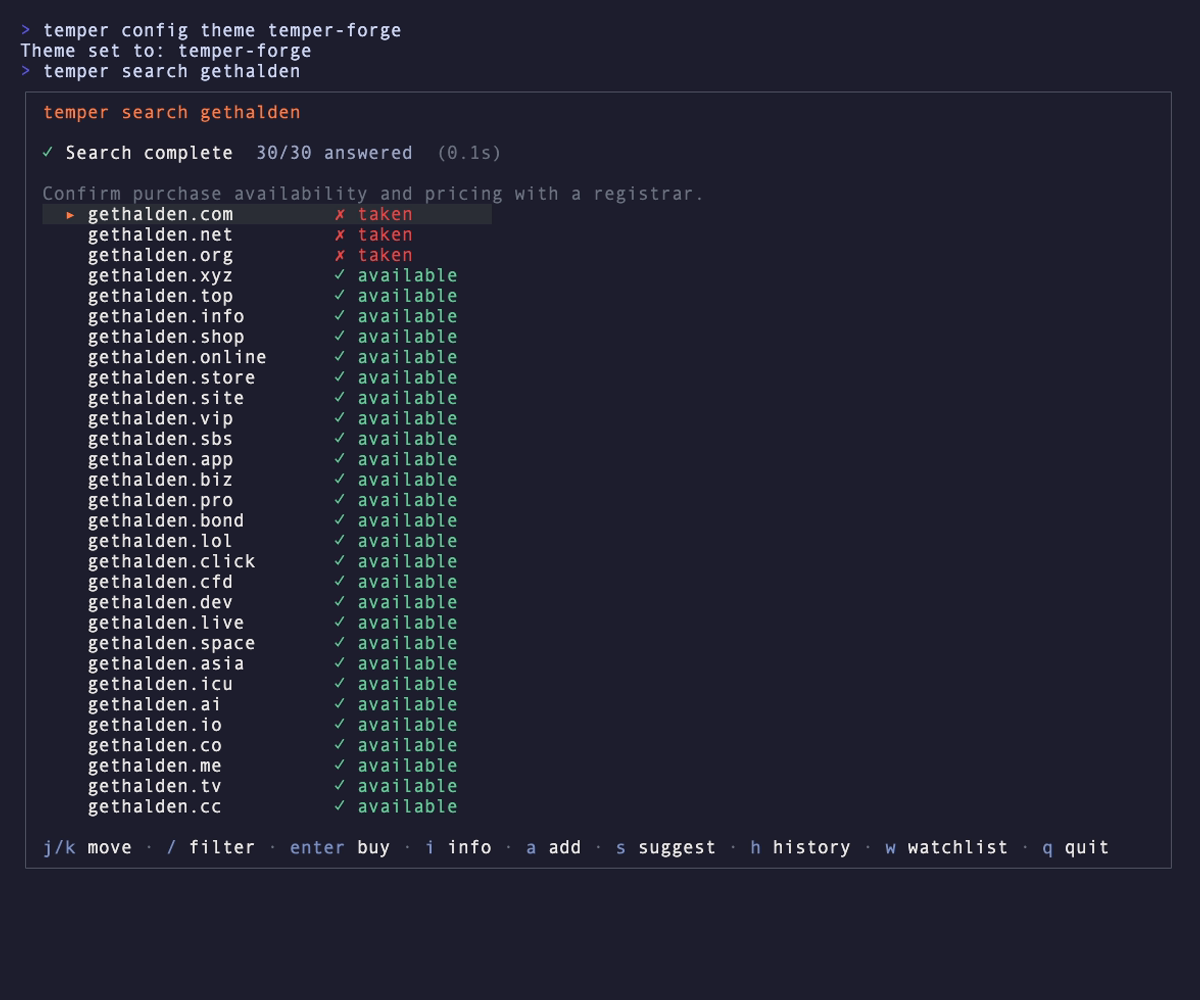
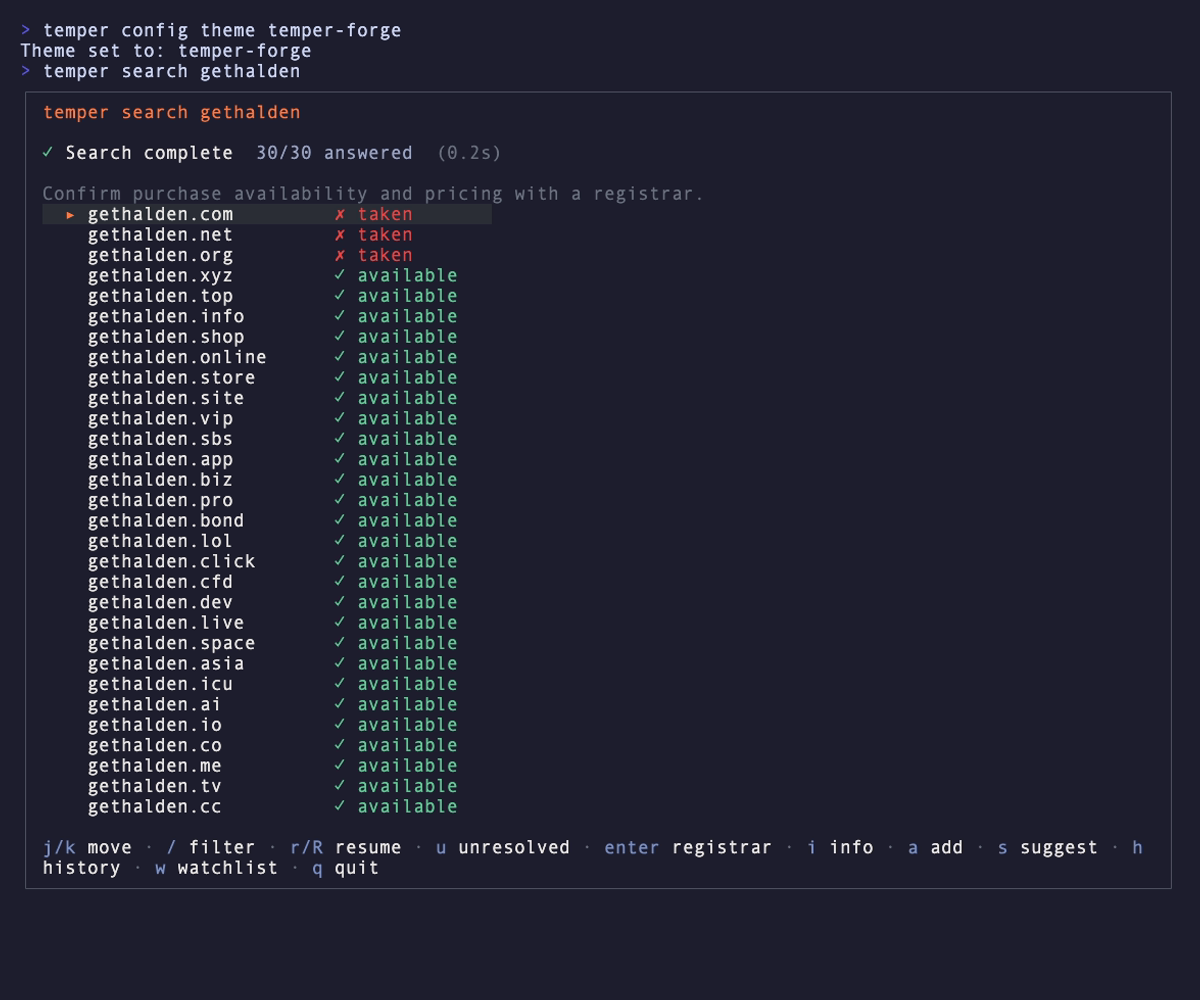
docs: document lookup recovery and refresh terminal captures

Changed region(s): [[0.4933, 0.837, 0.925, 0.868], [0.1233, 0.837, 0.4625, 0.899], [0.0308, 0.868, 0.0925, 0.899]]

diff --git a/web/app/llms.txt/route.ts b/web/app/llms.txt/route.ts
@@ -45,7 +45,7 @@ temper is an open-source command-line tool that uses official RDAP and WHOIS rou
 - \`search_domain\` - query one bare name across default or extended TLDs, or only suffixes supplied in tlds (including co.uk)
 - \`search_names\` - query up to 8 bare names across default, extended or selected suffixes; selected names × suffixes max 480. Do not combine tlds with extended, including false.
 - \`suggest_domain\` - generate prefix/suffix combinations and check them with RDAP/WHOIS
-- \`check_domain_availability\` - explicit full-domain check only
+- \`check_domain_availability\` - explicit full domains, or resume=true for exact prior unresolved domains on user request; maximum 100 per call
 - \`whois_domain\` - registrar, expiry, nameserver lookup
 - \`open_registrar\` - open purchase page in the browser
 
@@ -69,11 +69,19 @@ temper is an open-source command-line tool that uses official RDAP and WHOIS rou
 Local CLI/MCP commands sharing the same home persist server cooldowns in
 ~/.temper/state/lookup-limits.json. Server Retry-After takes precedence; otherwise
 Temper applies a 60/120/240/480/900-second policy with 0–5 seconds of jitter.
-After the wait, a new request sends one probe first; there is no background retry.
+After the wait, recovery proceeds one request at a time with conservative adaptive
+spacing; one successful response does not reset the policy. There is no background retry.
 server_cooldown with attempts=0 means no request was sent for that domain.
 retryAt is an earliest retry time, not a success guarantee; retryAtSource is
 server or client_policy. Do not bypass a cooldown by changing home or protocol.
 State errors stop local requests; the hosted demo uses separate memory-only state.
+Version 2 shared state preserves existing waits on migration and refuses active old
+leases. Update older processes/reconnect MCP clients; do not delete cooldown state.
+Lookup tools return structured rows, summary and retryPlan alongside text.
+Resume only exact prior unresolved names when asked, with a 30s MCP lookup budget;
+do not silently truncate over 100 names or automatically replay remaining pages.
+TUI r/R resumes selected/visible unresolved candidates after confirmation (max 120s);
+Esc stops a resume while keeping results, and u shows unresolved rows.
 
 ## CLI updates
 

diff --git a/web/lib/temper-data.ts b/web/lib/temper-data.ts
@@ -162,14 +162,17 @@ export interface Keybind {
 
 export const KEYMAP: Keybind[] = [
   { keys: ["j", "k"], action: "move" },
-  { keys: ["↵"], action: "buy" },
+  { keys: ["↵"], action: "registrar" },
+  { keys: ["r"], action: "resume selected" },
+  { keys: ["R"], action: "resume visible" },
+  { keys: ["u"], action: "unresolved" },
   { keys: ["i"], action: "whois" },
   { keys: ["/"], action: "filter" },
   { keys: ["a"], action: "watch" },
   { keys: ["s"], action: "suggest" },
   { keys: ["h"], action: "history" },
   { keys: ["w"], action: "list" },
-  { keys: ["esc"], action: "back" },
+  { keys: ["esc"], action: "stop resume / back" },
   { keys: ["q"], action: "quit" },
 ];
 

diff --git a/web/components/Mcp.tsx b/web/components/Mcp.tsx
@@ -120,7 +120,8 @@ export default function Mcp() {
           <p>
             temper runs as a local MCP server. Your AI assistant searches
             domains, discovers extensions by industry, purpose or region, and
-            checks only the extensions you choose. It can also open purchase pages.
+            checks only the extensions you choose. On request, it can resume exact
+            unresolved candidates while respecting server waits, or open registrar pages.
           </p>
           <p className={styles.muted}>
             When invoked through your local MCP server, temper does not proxy

diff --git a/README.md b/README.md
@@ -149,14 +149,16 @@ Existing releases gain this feature only after installing a release containing i
 | Key | Action |
 |-----|--------|
 | `j`/`k` | Move up/down |
-| `Enter` | Buy domain / select |
+| `Enter` | Choose a registrar to buy or confirm an unresolved result / select |
 | `i` | WHOIS/RDAP detail |
 | `/` | Filter results |
+| `r` / `R` | Resume selected / visible unresolved candidates after confirmation |
+| `u` | Toggle unresolved results, including in available-only mode |
 | `a` | Add to watchlist |
 | `s` | Suggest combinations |
 | `h` | Search history |
 | `w` | Watchlist |
-| `esc` | Back |
+| `esc` | Stop the current resume and keep results; otherwise back |
 | `q` | Quit |
 
 ### Search
@@ -172,7 +174,14 @@ temper search myproject --format json             # JSON output for piping
 temper search gethalden writeholt --format json   # multiple keywords in JSON mode
 ```
 
-Navigate with `j`/`k`, press `Enter` to buy, `a` to add to watchlist, `/` to filter. Press `s` for suggestions, `h` for history, `w` for watchlist. `q` to quit. TUI mode shows one query at a time; use `--format json` for batch searches.
+Navigate with `j`/`k`, press `Enter` to choose a registrar, `a` to add to watchlist, `/` to filter. Press `s` for suggestions, `h` for history, `w` for watchlist. `q` to quit. TUI mode shows one query at a time; use `--format json` for batch searches.
+
+Use `r` to resume the selected unresolved candidate, or `R` for unresolved candidates
+in the current filtered list. Confirmation shows the count and a maximum 120s budget.
+Server waits still apply; candidates beyond the budget stay deferred. `Esc` stops
+the resume while retaining prior results. Returning from history or another screen
+preserves the current search in memory; exiting Temper ends that session. Resuming
+updates its existing history entry without recreating a deleted entry.
 
 <p align="center"><img src="https://raw.githubusercontent.com/jongjinchoi/temper-domains/main/assets/screenshots/search.png" width="600" /></p>
 
@@ -267,7 +276,7 @@ result should be reviewed with a registrar before treating it as purchasable.
 
 #### Lookup limits and partial results
 
-CLI/MCP searches choose a 5–30s total budget based on the current server queue.
+Initial CLI/MCP searches choose a 5–30s total budget based on the current server queue and shared spacing.
 This is a client policy, not a promise that every registry will answer. An explicit
 `search --timeout` sets a strict whole-search limit, including bootstrap loading.
 Each network request has up to 5s after dispatch, within the remaining total time;
@@ -278,6 +287,8 @@ Results keep the existing status values and JSON array format. Optional
 request that never started, a timeout, cancellation, and server rate limits.
 RDAP `responseTime` includes queueing and retry waits; `queueTimeMs` isolates
 the queue portion.
+`httpStatus` preserves the observed HTTP status and `checkedAt` dates an actual
+registration/not-found answer; a deferred request does not create new evidence.
 MCP summaries separate requested, attempted, answered, and unresolved domains
 and show actual elapsed time. A completed stream can contain unresolved results.
 `available` means no registration record was found; confirm purchase availability,
@@ -289,7 +300,11 @@ Local CLI and MCP commands share server cooldowns in
 waits 60, 120, 240, 480, then 900 seconds after repeated limits, adding 0–5
 seconds of jitter. These are client policy values, not registry quotas.
 Repeating a search during the wait does not increase that backoff. After the
-wait, a new user request sends one probe first; no background retry runs.
+wait, a new user request enters gradual recovery; no background retry runs.
+Recovery allows one request at a time. After a 429, spacing starts at 1200ms and
+can increase to 2400/4800/9600ms after new limits. Each step back toward normal
+requires eight consecutive valid answers and at least 30s of observation.
+These conservative policy values are not measured registry quotas or a speed guarantee.
 
 `terminationReason: "server_cooldown"` with `attempts: 0` means that domain was
 not queried because of a previous server limit. `retryAt` is the earliest retry
@@ -299,13 +314,20 @@ the wait. HTTP 503 remains a service error. Other servers can continue.
 
 The state file contains server coordination metadata, not domain names or
 response bodies. Commands using the same home coordinate at most two requests
-per server and 300ms between starts. A damaged, inaccessible or busy state file
+per server and at least 300ms between admissions under normal conditions.
+Waiting for shared admission does not hold a local network slot. A damaged, inaccessible or busy state file
 returns `limit_state_error` instead of sending an uncoordinated request. Preserve
 and repair a damaged file; do not delete it to bypass a wait. If a command dies
 while holding the short file lock, first confirm no Temper processes are running,
 then remove only `lookup-limits.json.lock`. Request leases otherwise expire or
 are reclaimed after their process exits. Different homes, machines and hosted
 web instances do not share this local state; the web demo uses memory only.
+
+The shared state now uses version 2. Migration preserves existing waits and refuses
+to proceed while a live version-1 request lease exists. Update older Temper
+processes and reconnect MCP clients before using the new version together.
+Older 0.5.2 processes reject version-2 state; do not delete the file to work around
+that error. Automatic downgrade is not supported.
 
 ### Whois
 
@@ -497,12 +519,19 @@ See [VS Code's MCP documentation](https://code.visualstudio.com/docs/agent-custo
 | `search_domain` | Check one bare name across 30, 60 or explicitly selected extensions |
 | `search_names` | Check up to 8 bare names across default, extended or selected extensions |
 | `suggest_domain` | 15 name combinations × 5 TLDs using RDAP/WHOIS |
-| `check_domain_availability` | Verify explicit full domains only (up to 100) |
+| `check_domain_availability` | Check explicit full domains, or user-requested resume of exact prior unresolved domains (up to 100) |
 | `whois_domain` | Detailed WHOIS/RDAP info (registrar, dates, nameservers) |
 | `open_registrar` | Open purchase page in browser |
 
 MCP output keeps uncertain results visible. Low-confidence availability is
 reported as review instead of a final recommendation.
+Search, suggestion and availability tools also return `structuredContent` with
+`schemaVersion`, `rows`, `summary`, and `retryPlan`, plus the same payload as JSON
+text. Use `resume: true` only when the user asks to resume exact unresolved names
+from a prior result. Each resumed call makes one pass with a 30s lookup budget;
+new limits stop queued work for that server while other servers continue. More
+than 100 candidates require an explicit selection or split, never silent truncation
+or automatic replay. A cancelled tool call may not deliver its in-progress results.
 
 **Example: Discover supported extensions**
 

diff --git a/docs/current.md b/docs/current.md
@@ -88,7 +88,7 @@ in both workspaces so root typechecking does not download a separate compiler.
 - npm installs expose the `temper` binary and require Node.js >= 22.12.0.
 - Binary releases target macOS, Linux, and Windows; the Homebrew tap covers macOS and Linux.
 - CLI/MCP searches automatically budget 5–30s, including bootstrap, using queued
-  server start spacing plus a 5s request window. This estimate does not guarantee
+  local queue and shared recovery spacing plus a 5s request window. This estimate does not guarantee
   completion under congestion, slow responses or new server cooldowns. Explicit
   CLI search timeouts remain strict; detail uses 10s and hosted demo uses 3s.
 - Actual requests share a process-local scheduler: at most 20 active requests,
@@ -97,7 +97,9 @@ in both workspaces so root typechecking does not download a separate compiler.
   ~/.temper/state/lookup-limits.json. RDAP keys use origin; WHOIS uses host:43.
   These are client policy values, not published server quotas. The hosted web
   checker uses memory only; separate instances do not share a distributed limit.
-- RDAP 429/503 retries re-enter the scheduler (at most two attempts). Retry-After
+- RDAP 429/503 retries re-enter the scheduler (at most two limited-response passes
+  for an initial lookup; one for explicit resume). Redirects and published HTTPS
+  endpoint failover can add transmissions; attempts counts actual requests. Retry-After
   seconds and HTTP dates are honored without truncation. When waiting would
   exceed the deadline, return the response with retryAt. HTTP 503 is a service
   error, not a rate_limited result.
@@ -106,22 +108,30 @@ in both workspaces so root typechecking does not download a separate compiler.
   step; concurrent replies and skipped searches do not. Valid server waits
   (including zero or 24 hours) take precedence and are not capped to 900 seconds.
   A longer previously observed wait cannot be shortened by a later response.
-- After a wait, one shared probe starts inside a new caller's request. A valid
-  registration/not-found response resets policy backoff; no background replay
-  runs. Another server can continue while one server is deferred. Duplicate
+- After a wait, recovery admits one request at a time. 429 spacing starts at 1200ms
+  and increases through 2400/4800/9600ms; eight consecutive valid answers and 30s
+  of observation relax one step (600 then 300ms on the way back). Errors, cancellation
+  and abandoned leases interrupt the streak. 503 preserves its separate failure kind
+  without increasing the 429 speed level. No background replay runs. Shared admission
+  returns a wait without retaining a lease or local transport slot; another server
+  can continue while one server is deferred. Duplicate
   normalized domains in one batch share the lookup but retain each output row.
-- Local state is versioned and validated, with an exclusive short file lock,
+- Local state is version 2 and validated, with an exclusive short file lock,
   fsynced temporary file/rename and 0600 permissions. Only server metadata is
   stored, not queried domains or response bodies. Request leases use the run
   deadline and process identity. Invalid/unwritable/busy state stops requests
   with limit_state_error; it is not replaced with empty state. A lock left by
   an interrupted file transaction requires manual removal of only the .lock
   after confirming no Temper commands are running; the state must be preserved.
+  Version 1 migration under that lock preserves cooldown/nextStart and refuses live
+  old leases. Older 0.5.2 readers reject v2: update old processes/reconnect MCP rather
+  than deleting state. No automatic downgrade is provided.
 - Search and detail validate HTTP 200 domain JSON, including identifier matching
   when present. Optional fields and unknown extensions are permitted; 404 needs
   no JSON body. These checks do not establish purchase or premium-sale status.
 - Results preserve the status enum and add optional attempts, queueTimeMs,
-  terminationReason, retryAt and retryAtSource (server/client_policy).
+  terminationReason, retryAt and retryAtSource (server/client_policy), observed
+  httpStatus and checkedAt for valid registration/not-found evidence.
   server_cooldown with attempts=0 denotes a request not sent because of a prior
   limit. TUI search/suggestion/detail and MCP display retry cause/time/source;
   JSON/MCP use UTC and the TUI includes the local timezone. MCP and web completion summaries report
@@ -166,6 +176,17 @@ in both workspaces so root typechecking does not download a separate compiler.
 - TUI searches use lowercase result keys, show bootstrap failures as errors,
   and do not record a failed bootstrap as a successful search. Suggestion parent
   input is disabled while its child search is active.
+- The root search owns a memory-only `SearchSession` above screen transitions.
+  r resumes the selected unresolved row; R selects unresolved rows in the current
+  filtered list; u toggles unresolved visibility. Confirmation shows count/120s
+  maximum and waiting counts. Esc stops a resume, retaining prior answers and
+  rejecting late availability results; reported transmission counts still accumulate.
+  No candidate beyond its retry time budget is sent and new limits stop that
+  server's pending resume work. Counts distinguish round progress from retained
+  answers; cumulative attempts survive zero-attempt deferrals. History updates
+  compare the exact session-owned entry under lock and never resurrect deletions.
+  Past-history re-search creates a new session. App exit does not persist candidates.
+  Unresolved/low-confidence registrar dialogs request availability confirmation.
 - Search filtering resets selection and scroll position as text changes. Displayed
   rows, keyboard actions and registrar targets use the same position normalized
   against the filtered list and terminal height. Empty results have no selection.
@@ -181,6 +202,12 @@ in both workspaces so root typechecking does not download a separate compiler.
 - OG and Twitter images use the Node.js runtime; Next.js prerenders them at
   build time. Font downloads therefore remain a build-time network dependency.
 - `temper mcp` starts a local stdio MCP server.
+- Lookup tools return schemaVersion 1/rows/summary/retryPlan in structuredContent
+  and JSON text while retaining human-readable text. Exact prior unresolved domains
+  can be passed to check_domain_availability with resume=true only on user request;
+  max 100 stays explicit, with no automatic replay or truncation. Resume lookup budget
+  is 30s independent of progress notifications; response/cleanup is additional.
+  Cancellation may discard the current tool's unreturned results at the host.
 - `list_supported_tlds` is offline. No arguments returns the 30/30/60 bundles
   and full catalog count; view=extensions offers paged discovery (50 default,
   100 maximum), view=categories exposes industry/purpose/region navigation.

diff --git a/docs/superpowers/plans/2026-09-25-lookup-recovery.md b/docs/superpowers/plans/2026-09-25-lookup-recovery.md
@@ -1,0 +1,40 @@
+# Lookup recovery implementation plan
+
+Goal: preserve lookup evidence and let users explicitly resume unresolved candidates without bypassing shared waits.
+
+Approved design: [/Users/jongjinchoi/.codex/notes/projects/temper/rate-limit-design-validation-2026-09-25/design-review.md](/Users/jongjinchoi/.codex/notes/projects/temper/rate-limit-design-validation-2026-09-25/design-review.md). Approval: 2026-09-25, “승인 범위에 맞게 진행해. 추측하지 말고 임의로 구현하지 말고”. Main agent executes and reviews; no delegation, commit or external lookup.
+
+Architecture: a non-sleeping shared admission transaction feeds the local scheduler. Checker resume runs stop queued work for a newly limited server. A memory-owned TUI session merges results by run epoch; MCP returns bounded structured results and a manual retry plan. No new dependencies, cache, provider API or persisted domain list.
+
+## 1. Evidence and output
+
+- [x] Add regressions in WHOIS and MCP formatter tests for legal-notice/denial/conflicting-evidence responses and missing selected-TLD wait metadata. Run them before changing behavior.
+- [x] Update `src/checker/whois.ts` only for explicitly covered generic denial forms; preserve unknown/conflicting responses as errors. Do not invent provider patterns.
+- [x] Add typed `httpStatus`/`checkedAt` metadata where actual response/evidence exists; preserve status/confidence and CLI JSON array/filter semantics.
+
+## 2. Shared admission and recovery
+
+- [x] Test v1 migration preserving waits, active-old-lease refusal, invalid state preservation, generation races, zero/long server waits, gradual recovery and ready-server fairness.
+- [x] In `limits.ts`/`limit-store.ts`, introduce validated v2 state and `tryAcquire(key, deadline, signal)` returning a permit or finite retry delay. Reserve nextStart and lease atomically only on admission; `permit.check()` validates without sleeping. Keep `acquire()` as a waiting compatibility helper for direct callers/tests.
+- [x] In `admission.ts`, requeue denied admission after the existing scheduler returns its local slot. Successful admission retains the slot through transport and releases the lease in finally; `scheduler.ts` itself needed no change.
+- [x] Recovery policy: normal300ms/2, first429 at1200ms/1; steps300/600/1200/2400/4800/9600ms,8 consecutive answers and30s observation to relax one step.503 does not learn a faster/slower429 rate. Preserve fallback waits and unlimited valid Retry-After.
+- [x] Add `resume` to checker options/context, disable its internal limited-response retry and stop not-yet-started work on affected servers. Other servers continue; retryAt beyond deadline returns immediately. Existing initial-search timeout option remains unchanged.
+
+## 3. Session, history and UI
+
+- [x] Test a production memory session with a controlled checker iterator: completed rows survive, resume selects only known unresolved domains, repeated starts fail, cancel rejects late results, cumulative attempts persist, all-deferred returns without idle wait.
+- [x] Extract session ownership above screen transitions (`App.tsx`); hook subscribes/unsubscribes and cancels work on leaving while preserving snapshot. Past-history searches use a separate session.
+- [x] Add selection/confirmation with count and120s maximum, separate current-round progress, Esc stop, q/Ctrl+C exit, unresolved filter and explicit registrar confirmation action. Never query to read an already-present failure reason.
+- [x] Add compare-and-replace history update under the existing file lock; preserve timestamp, do not resurrect deleted/ambiguous entries, append only once after an actual attempt.
+- [x] Exercise actual TUI rendering/keys and navigation, not only model behavior.
+
+## 4. MCP and integration
+
+- [x] Add shared lookup output schema/result builder with schemaVersion1,rows,summary,retryPlan, human text and JSON text. Test actual SDK/stdio tool result validation and existing consumers.
+- [x] Allow explicit `resume` on the existing full-domain tool for exact prior unresolved candidates; max100 stays explicit, no silent truncation of480-result searches. Apply a server-owned30s lookup budget; no progress-based lifetime guarantee or background retry.
+- [x] Align README/current docs and relevant web MCP guidance. Hosted Web remains3s/max20TLD and memory-only state. Add no Codex-specific setup change.
+- [x] Run root tests/typecheck, npm build, local TLS/limits runners; Web typecheck/render checks if affected. Refresh checker evidence metadata only as recheck-required, never as fresh registry observations. Verify catalog/docs and inspect all final changes.
+
+## Validation boundary
+
+Tests use temporary homes, mocked transports or loopback servers. No live registry, hosted environment, user installation or production state validation is authorized. Keep failures and unverified boundaries in the agent todo. Existing valid results may be reused until relevant files/conditions change.
